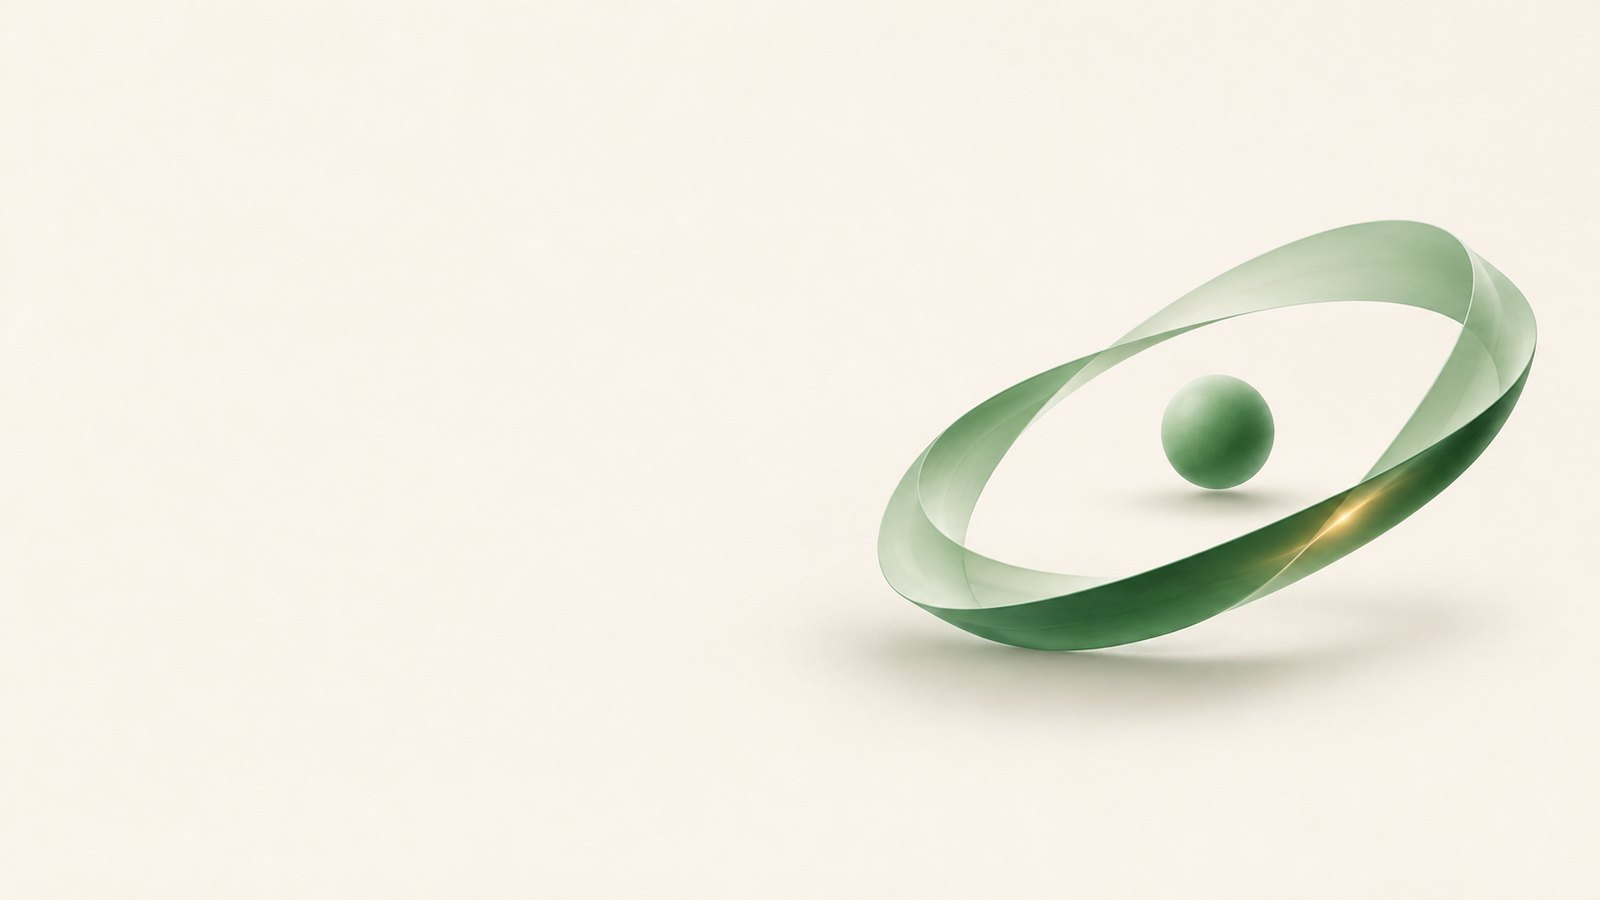
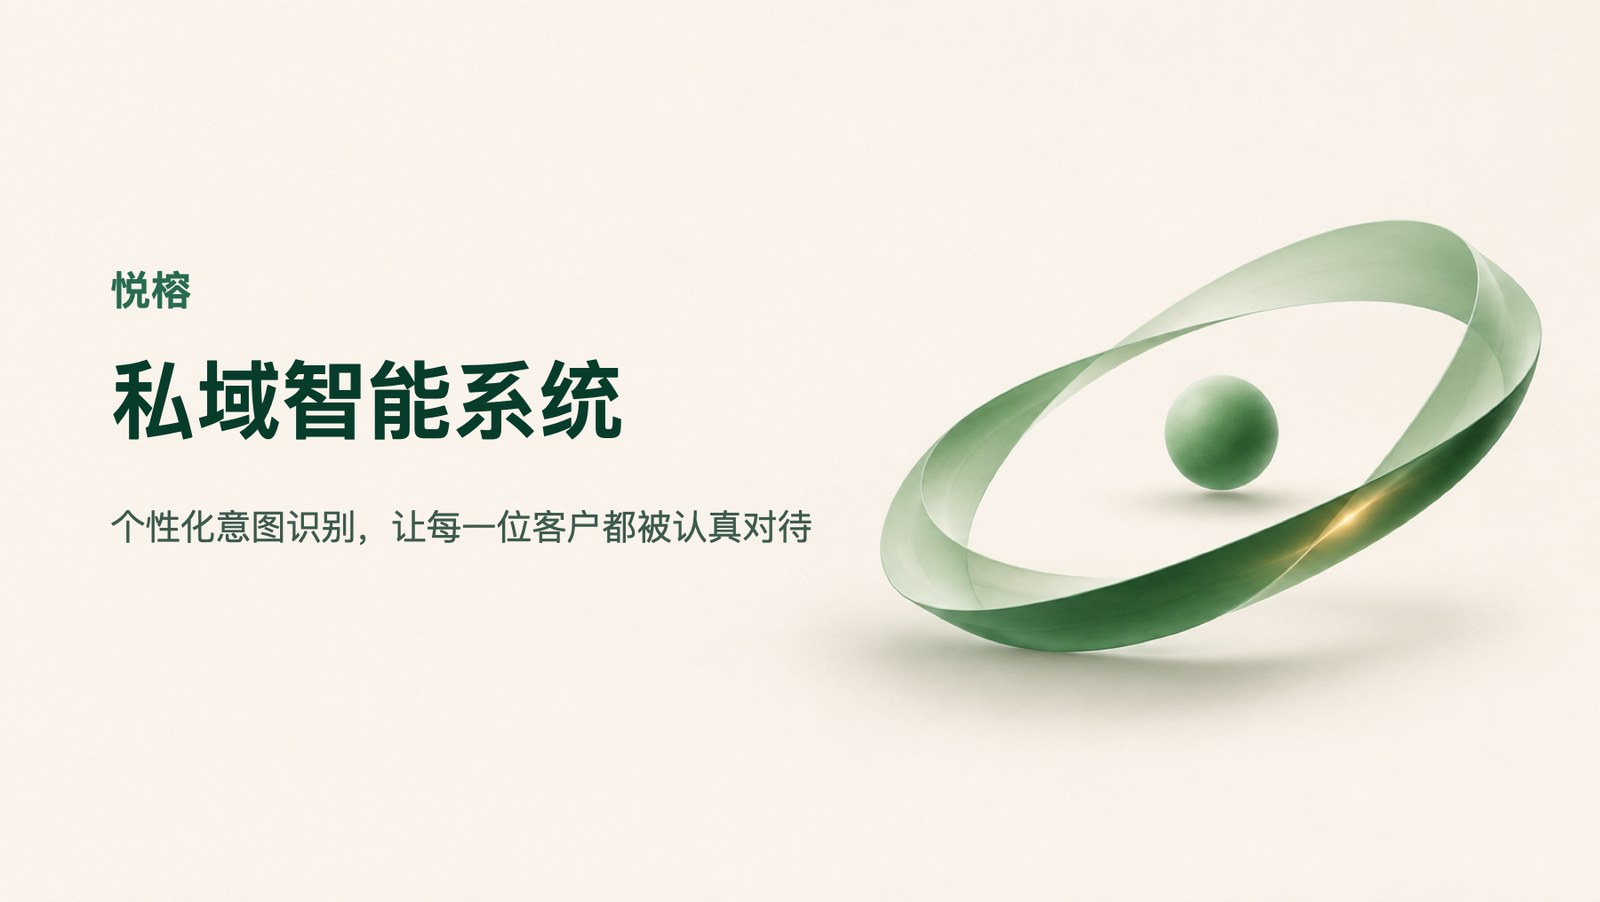
fix: 使用完整封面图并简化流程图语法

diff --git a/README.md b/README.md
@@ -25,15 +25,17 @@
 私域是一个闭环，不是一串工具：
 
 ```mermaid
-flowchart LR
-  A[接待] --> B[识别需求]
-  B --> C[建档分层]
-  C --> D[判断与跟进]
-  D --> E[内容与活动]
-  E --> F[追踪与复盘]
-  F -->|规则写回| C
+graph LR
+  A["接待"] --> B["识别需求"]
+  B --> C["建档分层"]
+  C --> D["判断与跟进"]
+  D --> E["内容与活动"]
+  E --> F["追踪与复盘"]
+  F --> C
   F --> A
 ```
+
+复盘产出的规则写回档案（F → C），再回到下一次接待。
 
 三层分工：
 
